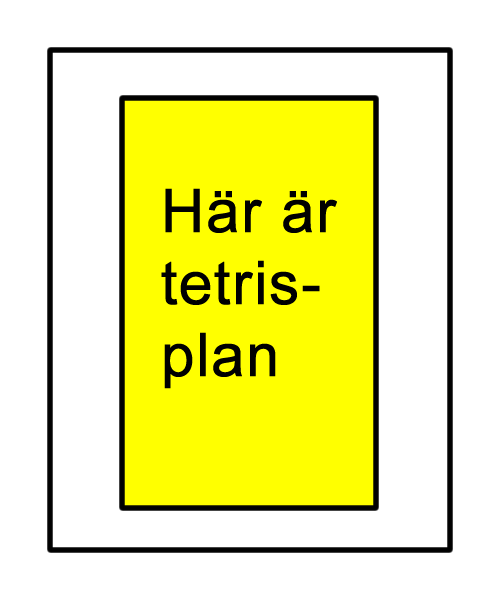
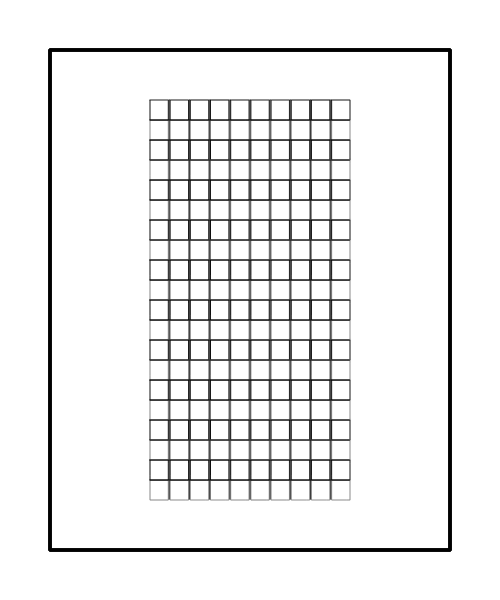
Försöker få blocken att fungera

diff --git a/src/tetrix/GameplayView.java b/src/tetrix/GameplayView.java
@@ -12,6 +12,7 @@ import org.newdawn.slick.SlickException;
 import org.newdawn.slick.state.BasicGameState;
 import org.newdawn.slick.state.StateBasedGame;
 
+import tetrix.core.BlockBox;
 import tetrix.core.Bullet;
 import tetrix.core.Cannon;
 import tetrix.core.Util;
@@ -26,6 +27,12 @@ public class GameplayView extends BasicGameState {
 	private List bulletList;
 	private Bullet bullet; 
 	private Image bulletImage;
+	private BlockBox blockBox;
+	private int blockSize;
+	private Image block;
+	private static int boxYPos = 100;
+	private static int boxXPos = 150;
+	
 
 	public GameplayView(int stateID) {
 		this.stateID = stateID;
@@ -34,18 +41,25 @@ public class GameplayView extends BasicGameState {
 	@Override
 	public void init(GameContainer arg0, StateBasedGame arg1)
 			throws SlickException {
+		blockSize = 20;
 		background= new Image("img/game-background.png");
 		cannonImage = new Image("img/cannon2.png");
+		block = new Image("img/block.png");
 		cannon = new Cannon(225,525);
 		bulletList = new ArrayList();
 		bulletImage = new Image("img/Bullet2.jpg");
+		blockBox = new BlockBox();
 	}
-
+	
 	@Override
 	public void render(GameContainer arg0, StateBasedGame arg1, Graphics arg2)
 			throws SlickException {
 		background.draw(0,0);
 		cannonImage.draw(cannon.getX(), cannon.getY());
+		
+		for(int i = boxXPos; i < 350; i+=20) {
+			block.draw(i,boxYPos);
+		}
 
 		arg2.setColor(Color.black);
 		for(int i = 0; i < bulletList.size(); i++){
@@ -67,7 +81,7 @@ public class GameplayView extends BasicGameState {
 			cannon.move(-updateSpeed);
 		}
 
-		if(input.isKeyDown(Input.KEY_SPACE)) {
+		if(input.isKeyPressed(Input.KEY_SPACE)) {
 			bullet = new Bullet(cannon.getPosition(), cannon.getValue());
 			bulletList.add(bullet);
 		}
@@ -82,8 +96,7 @@ public class GameplayView extends BasicGameState {
 		}
 
 
-
-
+		//blockBox.update();
 		cannonImage.setRotation(cannon.getRotation());
 	}
 

diff --git a/src/tetrix/core/BlockBox.java b/src/tetrix/core/BlockBox.java
@@ -1,33 +1,90 @@
 package tetrix.core;
 
 <<<<<<< HEAD
+<<<<<<< HEAD
 import java.util.ArrayList;
 =======
 >>>>>>> 2a24f4f6cc5ac0eca0617e95684bb28e8020077d
+=======
+import org.newdawn.slick.Image;
+import org.newdawn.slick.SlickException;
+
+>>>>>>> Försöker få blocken att fungera
 public class BlockBox {
-	
+
 	private int width;
 	private int height;
-	
-	private int[][] blockBox;
+	private int yPos;
+	private int xPos;
+
+	private boolean[][] blockBox;
+	private Image[][] blockImg;
+	private Position[][] blockPos;
 
 	public BlockBox() {
 		new BlockBox(10,20);
 	}
-	
+
 	public BlockBox(int width, int height){
 		this.width = width;
 		this.height = height;
-		
-		blockBox = new int[width][height];
+
+		blockBox = new boolean[width][height];
 		clearBoard();
+		initPositions();
 	}
-	
+
 	public void clearBoard() {
 		for(int i = 0; i < blockBox.length; i++) {
 			for(int j = 0; j < blockBox[i].length; j++) {
-				//blockBox[i][j] = Tetromino.EMPTY;
+				blockBox[i][j] = false;
 			}
 		}
+	}
+
+	public void paint(int x, int y) {
+		if(!isPainted(x,y)){
+			xPos = x;
+			yPos = y;
+			blockBox[xPos][yPos] = true;
+		}	
+	}
+
+	public void update() throws SlickException {
+		makeEmpty(yPos, xPos);
+		yPos++;
+		paint(xPos, yPos);
+
+		for(int i = 0; i < blockBox.length; i++) {
+			for(int j = 0; j < blockBox[i].length; j++) {
+				if(blockBox[i][j])
+					blockImg[i][j].startUse();
+				else
+					blockImg[i][j].destroy();
+			}
+		}
+
+	}
+
+	public boolean isPainted(int x, int y) {
+		return blockBox[x][y]; 
+	} 
+
+	public void makeEmpty(int x, int y) {
+		blockBox[x][y] = false;
+
+	}
+
+	private void initPositions(){
+		for(int i = 150; i < 350; i+=20) {
+			for(int j = 100; j < 500; j+=20) {
+				blockPos[i][j].setX(i);
+				blockPos[i][j].setY(j);
+			}
+		}
+	}
+
+	public Position getPos(int x, int y){
+		return blockPos[x][y];
 	}
 }
